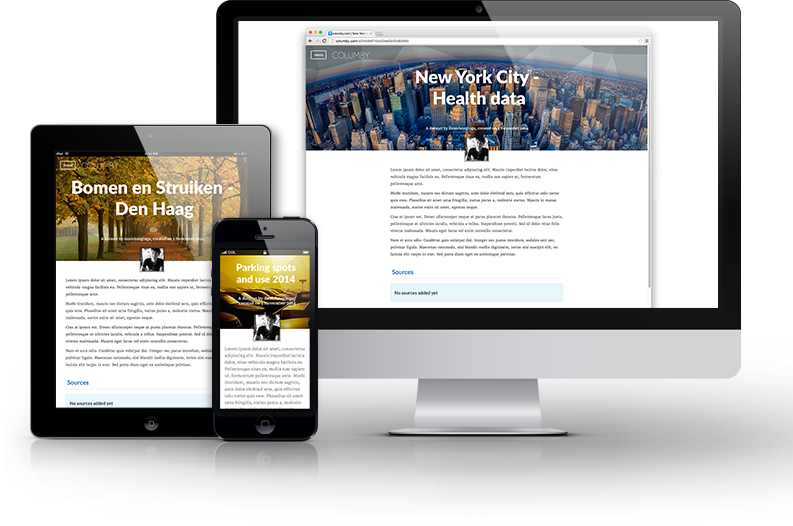
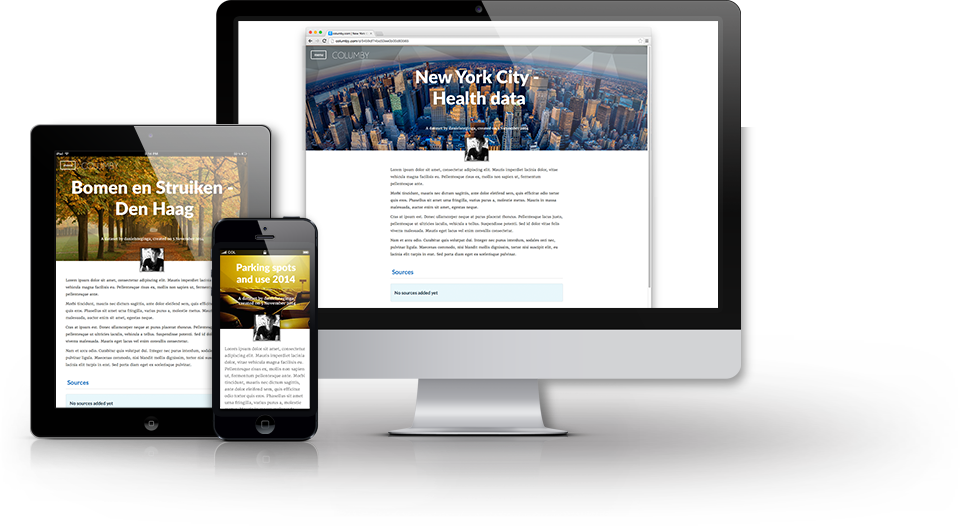
Changed homepage images

diff --git a/client/app/routes/home/partials/home.html b/client/app/routes/home/partials/home.html
@@ -25,20 +25,20 @@
     <div class="container-fluid">
 
       <div class="row">
-        <div class="col-xs-12 col-sm-6 col-md-offset-1 col-md-4 col-lg-offset-1 col-lg-4">
+        <div class="col-xs-12 col-sm-6 col-md-offset-1 col-md-5 col-lg-offset-1 col-lg-5">
           <h3>Publish your data in a beautiful way.</h3>
           <p>You've carefully gathered your data, we help you present it in it's best way. Attach beautiful pictures,  describe your dataset and add some references.</p>
         </div>
-        <div class="col-xs-12 col-sm-6 col-md-6 col-lg-5 pull-right picture-side">
+        <div class="col-xs-12 col-sm-6 col-md-6 col-lg-6">
           <img src="/assets/images/showcase-presentation.png" class="img-responsive pull-right"\>
         </div>
       </div>
 
       <div class="row">
-        <div class="col-xs-12 col-sm-6 col-md-6 col-lg-5 pull-left picture-side">
+        <div class="col-xs-12 col-sm-6 col-md-6 col-lg-6">
           <img src="/assets/images/showcase-presentation-embed.png" class="img-responsive pull-left"\>
         </div>
-        <div class="col-xs-12 col-sm-6 col-md-offset-1 col-md-4 col-lg-offset-1 col-lg-4">
+        <div class="col-xs-12 col-sm-6 col-md-5 col-lg-5">
           <h3>Embed your data with ease.</h3>
           <p>Distributing your data has become easy. Use our API to integrate your data in your apps or embed datasets on your website.</p>
         </div>
